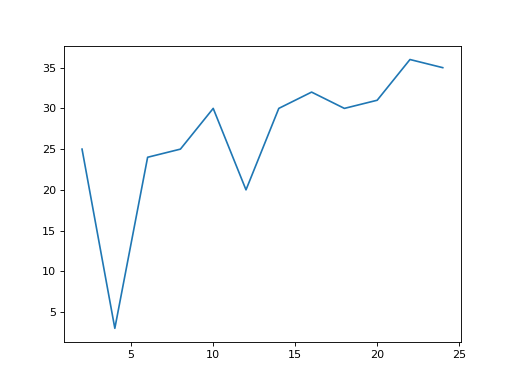
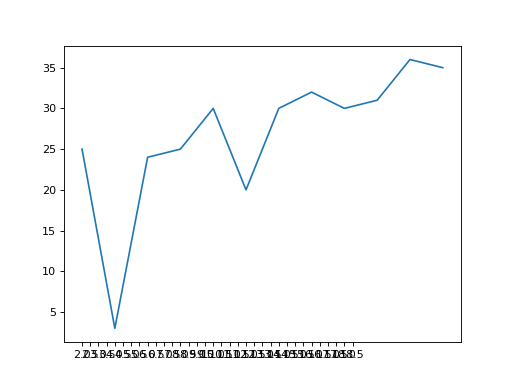
20200618

Changed region(s): [[0.125, 0.9062, 0.75, 0.9375], [0.875, 0.9062, 0.9062, 0.9375]]

diff --git a/01_python_base/py_03_list.py b/01_python_base/py_03_list.py
@@ -1,0 +1,43 @@
+# [m:] 代表列表中的第m + 1 项到最后一项
+
+# [: n] 代表列表中的第一项到第n项
+
+import numpy as np
+
+a = [1, 2, 3.4, 5]
+print(a)
+# [1 2 3 4 5]
+
+print(a[-1])
+# 取最后一个元素结果：[5]
+
+print(a[:-1])
+# 除了最后一个取全部 结果：[1 2 3 4]
+
+print(a[::-1])
+# 取从后向前（相反）的元素 结果：[5 4 3 2 1]
+
+print(a[2::-1])
+# 取从下标为2的元素翻转读取 结果：[3 2 1]
+
+print(a[1:])
+# 取第二个到最后一个元素 结果：[2 3 4 5]
+
+list=range(100)
+#正着切片
+_list = list[:10]
+# for i in _list:
+#     print(i)
+print(len(_list))
+# [0, 1, 2, 3, 4, 5, 6, 7, 8, 9]
+#负索引切片
+print(list[-10:])
+# [90, 91, 92, 93, 94, 95, 96, 97, 98, 99]
+#倒着切片
+print(list[10:0:-1])
+# [10, 9, 8, 7, 6, 5, 4, 3, 2, 1]
+print(list[-1:-10:-1])
+# [99, 98, 97, 96, 95, 94, 93, 92, 91]
+#跳着切片
+print(list[::10])
+# [0, 10, 20, 30, 40, 50, 60, 70, 80, 90]

diff --git a/python_analysis/py_02_matplotlib.py b/python_analysis/py_02_matplotlib.py
@@ -1,0 +1,21 @@
+from matplotlib import pyplot as plt
+import random
+
+plt.figure(figsize=(20,8),dpi=80)
+
+x = range(0,120)
+y = [random.randint(20,35) for i in range(120)]
+
+plt.plot(x,y)
+#调整X轴的刻度
+_xtick_labels = ["10:{}".format(i) for i in range(60)]
+_xtick_labels += ["11:{}".format(i) for i in range(60)]
+
+# 取步长，数字和字符串一一对应，数据的长度一样
+# rotation旋转的度数
+plt.xticks(list(x)[::3],_xtick_labels[::3],rotation=45)
+
+plt.show()
+
+
+

diff --git a/python_analysis/py_01_matplotlib.py b/python_analysis/py_01_matplotlib.py
@@ -8,14 +8,22 @@ plt.figure(figsize=(6.4,4.8),dpi=80)
 
 #设置横轴和纵轴的数值
 x = range(2,26,2)
-y = [25,3,24,25,30,20,30,32,30,31,36,35]
+y = [25,10,24,25,30,20,30,32,30,31,33,35]
 
 # 绘图
 plt.plot(x,y)
 
+#设置X轴的刻度
+#plt.xticks(x)
+plt.xticks(range(2,25))
+plt.yticks(range(min(y),max(y)+1))
+#_xtick_labels = [i/2 for i in range(4,49)]
+#plt.xticks(_xtick_labels)
+
 #保存
-plt.savefig("./t1.png")
+#plt.savefig("./t1.png")
+
 #展示图形
-#plt.show()
+plt.show()
 
 
